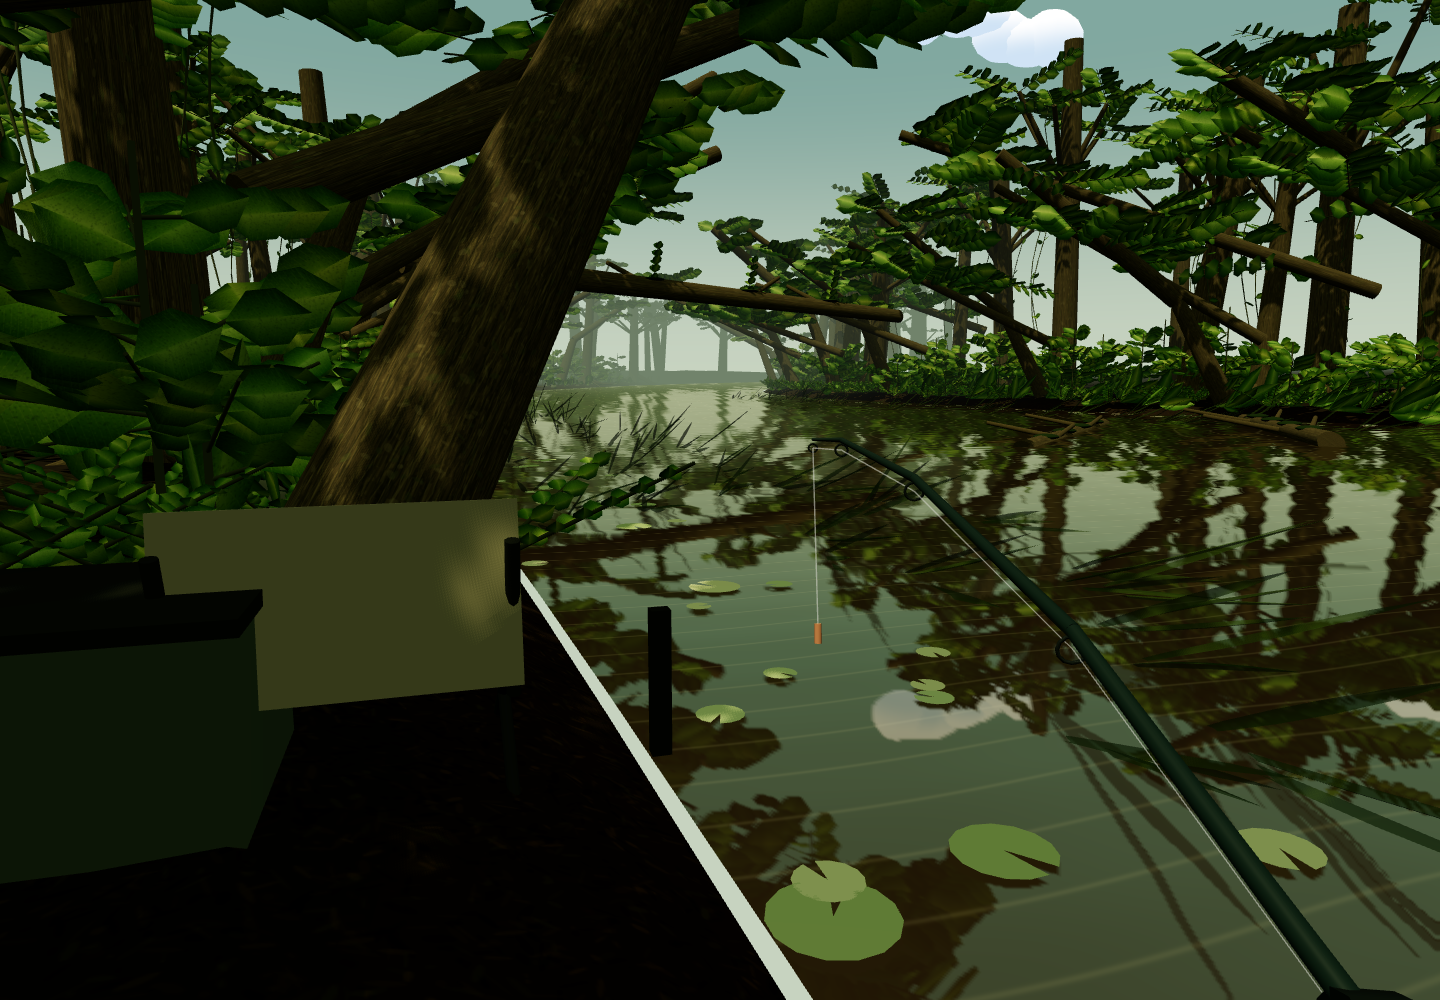
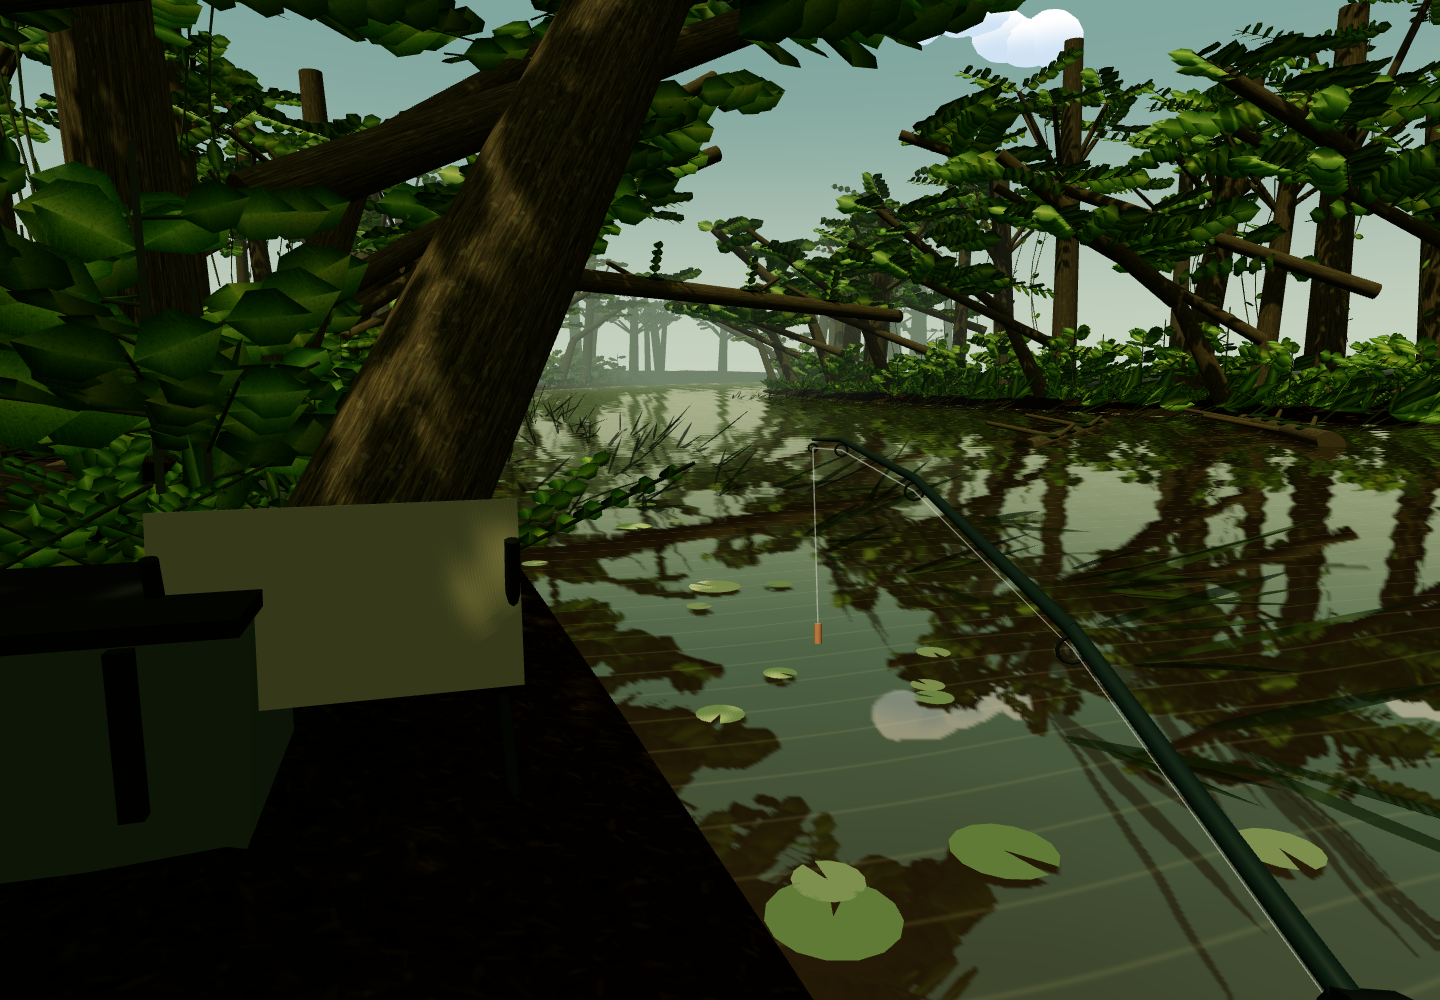
Close exposed shoreline seam in flooded forest scene

Changed region(s): [[0.3438, 0.558, 0.4688, 0.806], [0.4688, 0.806, 0.5625, 1.0]]

diff --git a/flooded-forest-scene.js b/flooded-forest-scene.js
@@ -68,9 +68,10 @@ export function createMap(parent,camera,renderer,config=AMAZON_FLOODED_FOREST,{s
     }
     const leaves=pool(leafGeometry(),leafMat),smallLeaves=pool(leafGeometry(4),leafMat,false),pebbles=pool(new THREE.IcosahedronGeometry(1,1),standard('#6c7052'));
     const foliage=['#c3d994','#a1bc78','#d8e3a0','#d9d78b','#b1c981','#b9d49c'];
-    // Continuous meandering banks share the exact boundary used by fishing rules.
+    // Submerge the inner bank strip beneath the water edge, closing the exposed sky seam.
+    // Fishing retains the same analytic shoreline.
     for(const side of [-1,1]){
-      const pos=[],uv=[],tints=[],indices=[],strips=[0,.45,1.5,4,12,30,75],segments=waterSegments;
+      const pos=[],uv=[],tints=[],indices=[],strips=[-.42,.45,1.5,4,12,30,75],segments=waterSegments;
       for(let j=0;j<=segments;j++){const z=config.water.minZ+(waterEnd-config.water.minZ)*j/segments;
         for(let i=0;i<strips.length;i++){const x=riverBank(z,side,config.water)+side*strips[i],height=i===0?-.13:i===1?.14:.34+Math.min(2,strips[i]*.025)+.12*Math.sin(x*.9+z*.4);pos.push(x,height,z);uv.push(x/4,z/4);color.set(i<2?'#c0b18a':i<4?'#98a06b':'#6f8057').multiplyScalar(range(.83,1.08));tints.push(color.r,color.g,color.b);
           if(i&&j){const n=j*strips.length+i;if(side===1)indices.push(n,n-strips.length,n-1,n-1,n-strips.length,n-strips.length-1);else indices.push(n,n-1,n-strips.length,n-1,n-strips.length-1,n-strips.length);}}
